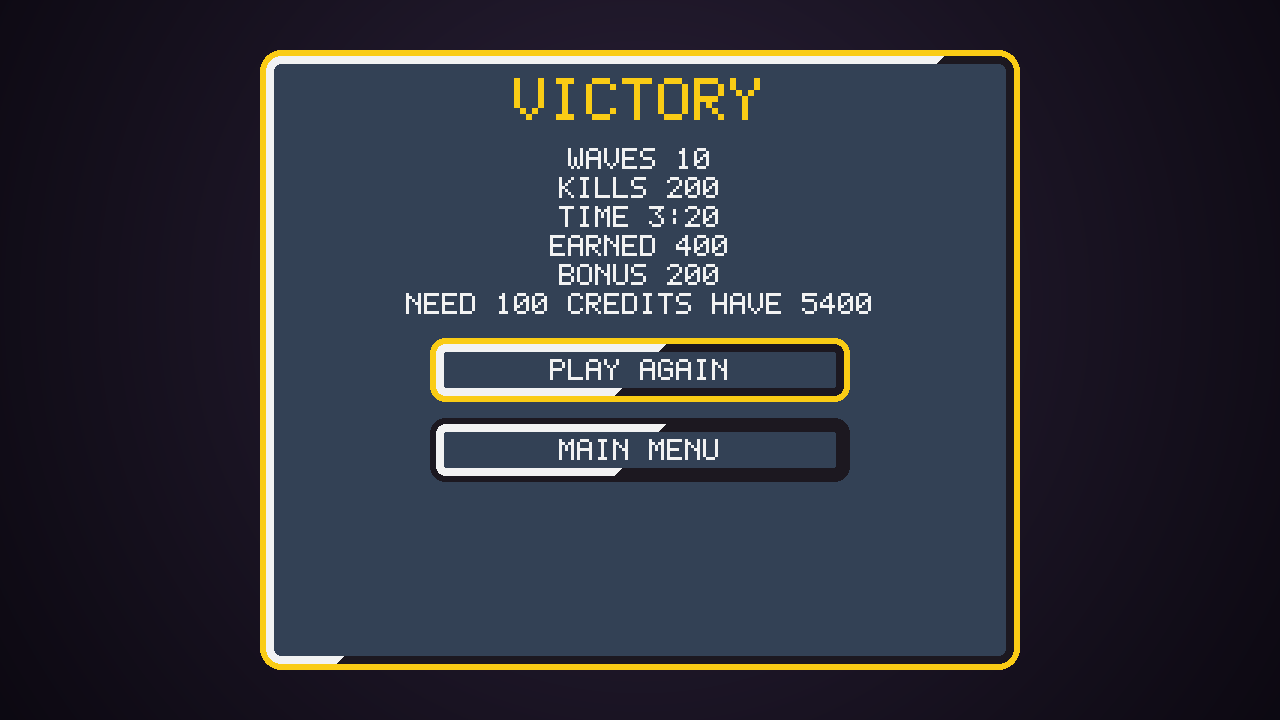
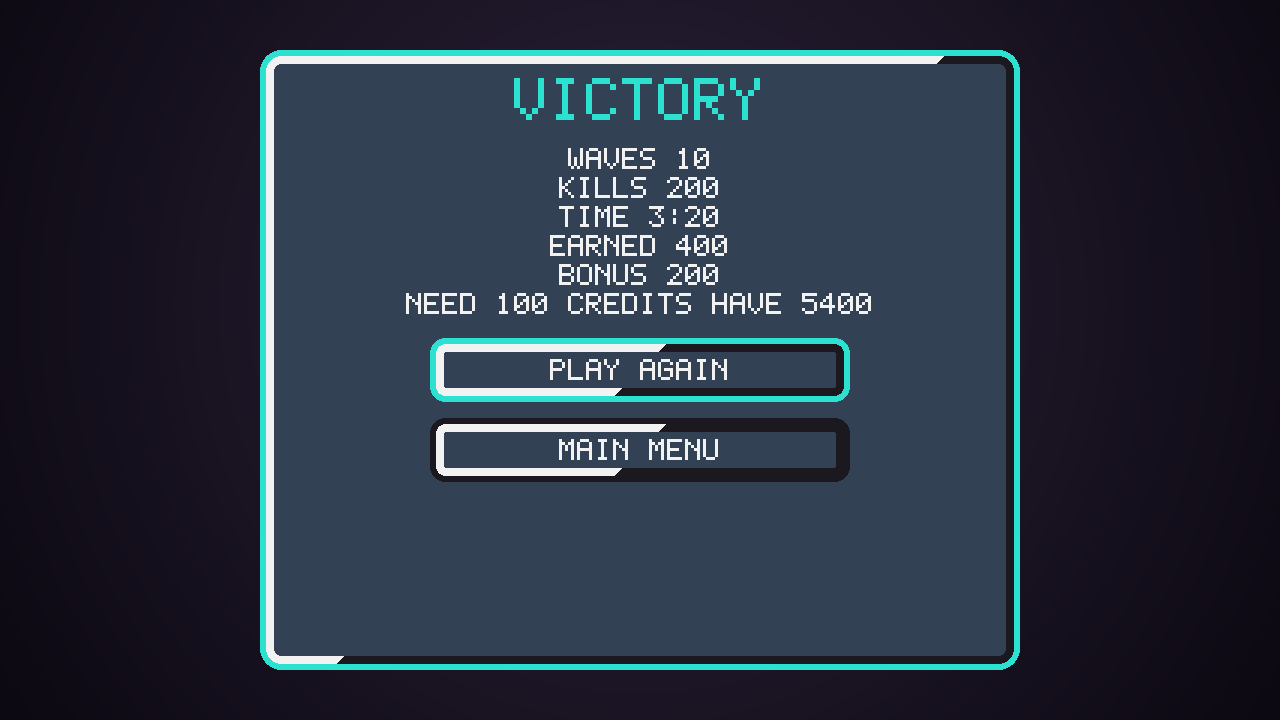
Give the win screen its own victory palette key.
Legendary gold stays on the crate reveal. The win title and outline now resolve the required victory key (#2DE1D0), and content load fails if that key is missing.

diff --git a/crates/sim/tests/rules.rs b/crates/sim/tests/rules.rs
@@ -1349,6 +1349,33 @@ fn vent_tell_size_and_height_are_required() {
 }
 
 #[test]
+fn victory_palette_key_is_required() {
+    let content = Content::embedded();
+    assert_eq!(content.ui.colors.victory, "victory");
+    assert_eq!(content.palette.keys.victory, "#2DE1D0");
+    assert_eq!(content.palette.hex("victory"), Some("#2DE1D0"));
+    assert_ne!(content.palette.hex("victory"), content.palette.hex("rarity_legendary"));
+    let base = gemini_sim::content::embedded_sources();
+    let missing = base.palette.replacen("victory = \"#2DE1D0\"\n", "", 1);
+    assert_ne!(missing, base.palette);
+    let err = Content::parse(&gemini_sim::content::Sources {
+        palette: &missing,
+        ..sources_with(&base, base.coop)
+    })
+    .expect_err("missing victory");
+    assert!(err.contains("victory"), "{err}");
+    let gold = base.ui.replacen("victory = \"victory\"", "victory = \"rarity_legendary\"", 1);
+    assert_ne!(gold, base.ui);
+    let err = Content::parse(&gemini_sim::content::Sources {
+        ui: &gold,
+        ..sources_with(&base, base.coop)
+    })
+    .expect_err("victory must not be legendary gold");
+    assert!(err.contains("victory"), "{err}");
+    assert!(err.contains("legendary"), "{err}");
+}
+
+#[test]
 fn spatial_grid_finds_neighbors_in_order() {
     use gemini_sim::spatial::SpatialGrid;
     let mut grid = SpatialGrid::new(4.0, 32.0);

diff --git a/crates/sim/src/content.rs b/crates/sim/src/content.rs
@@ -4312,6 +4312,8 @@ pub struct PaletteKeys {
     pub reveal_stage: String,
     pub reveal_ink: String,
     pub reveal_paper: String,
+    /// Win title and panel outline. Not legendary gold.
+    pub victory: String,
     pub hero_vex: String,
     pub hero_nyra: String,
     pub hero_brakk: String,
@@ -4393,6 +4395,7 @@ impl Palette {
             "reveal_stage" => self.keys.reveal_stage.as_str(),
             "reveal_ink" => self.keys.reveal_ink.as_str(),
             "reveal_paper" => self.keys.reveal_paper.as_str(),
+            "victory" => self.keys.victory.as_str(),
             "hero_vex" => self.keys.hero_vex.as_str(),
             "hero_nyra" => self.keys.hero_nyra.as_str(),
             "hero_brakk" => self.keys.hero_brakk.as_str(),
@@ -5879,6 +5882,9 @@ fn validate_ui(
     }
     if ui.colors.bank_count == "rarity_legendary" || ui.colors.bank_bonus == "rarity_legendary" {
         return Err("ui.toml bank count and bonus must not use legendary gold".into());
+    }
+    if ui.colors.victory == "rarity_legendary" {
+        return Err("ui.toml colors.victory must not use legendary gold".into());
     }
     if !(layout.border_px > 0.0) {
         return Err("ui.toml layout.border_px must be > 0".into());

diff --git a/crates/meshes/src/menu_still.rs b/crates/meshes/src/menu_still.rs
@@ -1180,6 +1180,13 @@ mod tests {
         let defeat_color = bytes(&content, &content.ui.colors.defeat);
         assert_eq!(defeat_color, bytes(&content, "spitter_glow"));
         assert!(lost.chunks(3).any(|px| px == defeat_color), "defeat title uses spitter_glow");
+        let victory_color = bytes(&content, &content.ui.colors.victory);
+        assert_eq!(content.ui.colors.victory, "victory");
+        assert_eq!(victory_color, bytes(&content, "victory"));
+        let gold = bytes(&content, "rarity_legendary");
+        assert_ne!(victory_color, gold);
+        assert!(won.chunks(3).any(|px| px == victory_color), "victory title uses the victory key");
+        assert!(won.chunks(3).all(|px| px != gold), "the win screen does not use legendary gold");
         let whole = paint_menu(&content, &results(BankShow::End, 40.0, 0.0, Some(40.0)), 1280, 720).0;
         let rounded = paint_menu(&content, &results(BankShow::End, 40.4, 0.0, Some(40.0)), 1280, 720).0;
         let next = paint_menu(&content, &results(BankShow::End, 41.0, 0.0, Some(40.0)), 1280, 720).0;
